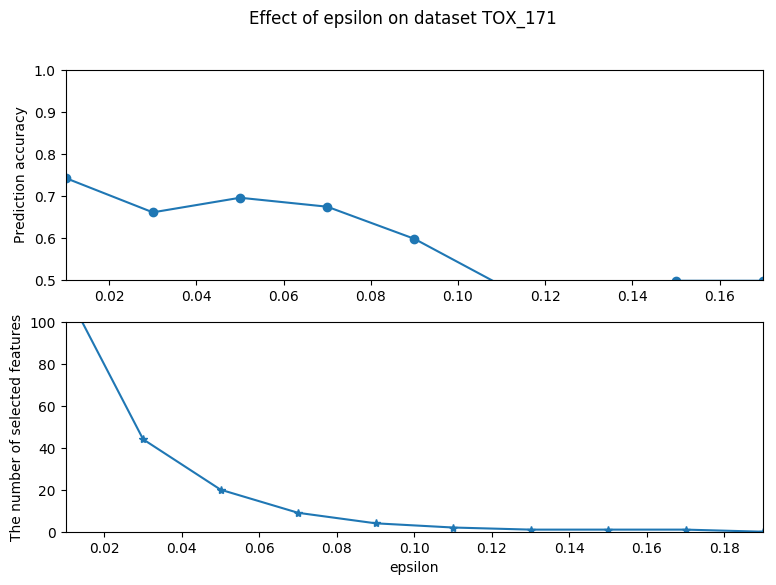
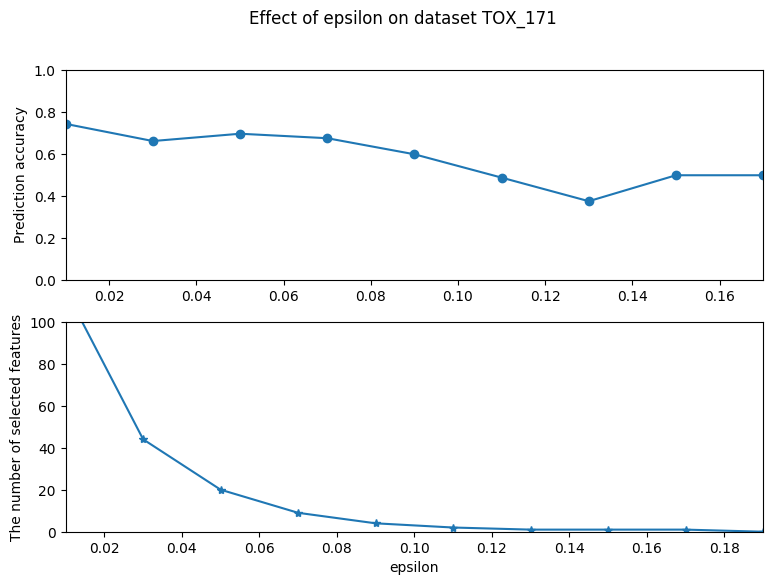
update all_result for aggr.png

diff --git a/datas/gene/all_result/epsilon/aggr_png_4_epsilon.py b/datas/gene/all_result/epsilon/aggr_png_4_epsilon.py
@@ -1,0 +1,17 @@
+from matplotlib import image
+import numpy as np
+
+if __name__=='__main__':
+    # img_names="SMK_CAN_187 GLI_85 Prostate_GE DLBCL".split()
+    img_names="SMK_CAN_187 GLIOMA Prostate_GE SRBCT".split()
+    img1=image.imread("%s.png"%img_names[0])
+    img1=np.concatenate((img1, image.imread("%s.png"%img_names[1])), axis=1)
+
+    img2=image.imread("%s.png"%img_names[2])
+    img2=np.concatenate((img2, image.imread("%s.png"%img_names[3])), axis=1)
+
+    img=np.concatenate((img1, img2))
+
+    image.imsave("aggr.png", img)
+
+

diff --git a/datas/gene/all_result/threshold/aggr_png_4_threshold.py b/datas/gene/all_result/threshold/aggr_png_4_threshold.py
@@ -1,0 +1,17 @@
+from matplotlib import image
+import numpy as np
+
+if __name__=='__main__':
+    # img_names="SMK_CAN_187 GLI_85 Prostate_GE DLBCL".split()
+    img_names="SMK_CAN_187 GLIOMA Prostate_GE SRBCT".split()
+    img1=image.imread("%s.png"%img_names[0])
+    img1=np.concatenate((img1, image.imread("%s.png"%img_names[1])), axis=1)
+
+    img2=image.imread("%s.png"%img_names[2])
+    img2=np.concatenate((img2, image.imread("%s.png"%img_names[3])), axis=1)
+
+    img=np.concatenate((img1, img2))
+
+    image.imsave("aggr.png", img)
+
+

diff --git a/datas/gene/all_result/epsilon/draw_epsilon.py b/datas/gene/all_result/epsilon/draw_epsilon.py
@@ -23,7 +23,7 @@ def read_output_epsilon(fname):
 
 def draw(cls, nfs, fname):
     fig, axes = plt.subplots(2, 1)
-    cls.plot(ax=axes[0], style='o-', ylim=(0.5, 1.0))
+    cls.plot(ax=axes[0], style='o-', ylim=(0.0, 1.0))
     nfs.plot(ax=axes[1], style='*-', ylim=(0, 100))
     axes[0].set_ylabel('Prediction accuracy')
     axes[1].set_ylabel('The number of selected features')

diff --git a/datas/gene/all_result/threshold/README.md b/datas/gene/all_result/threshold/README.md
@@ -1,3 +1,8 @@
+## aggregate four picture in one
+<center >
+<img src="https://github.com/zhonghuawu/design/raw/master/datas/gene/all_result/threshold/aggr.png">
+</center>
+
 ## optimize threshold
 
 <center >

diff --git a/datas/gene/all_result/epsilon/README.md b/datas/gene/all_result/epsilon/README.md
@@ -1,3 +1,8 @@
+## aggregate four picture in one
+<center >
+<img src="https://github.com/zhonghuawu/design/raw/master/datas/gene/all_result/epsilon/aggr.png">
+</center>
+
 ## optimize epsilon
 
 <center >

diff --git a/datas/gene/all_result/streaming/README.md b/datas/gene/all_result/streaming/README.md
@@ -2,7 +2,6 @@
 <center >
 <img src="https://github.com/zhonghuawu/design/raw/master/datas/gene/all_result/streaming/aggr.png">
 </center>
------
 
 ## streaming features selection procedure comparsion
 
